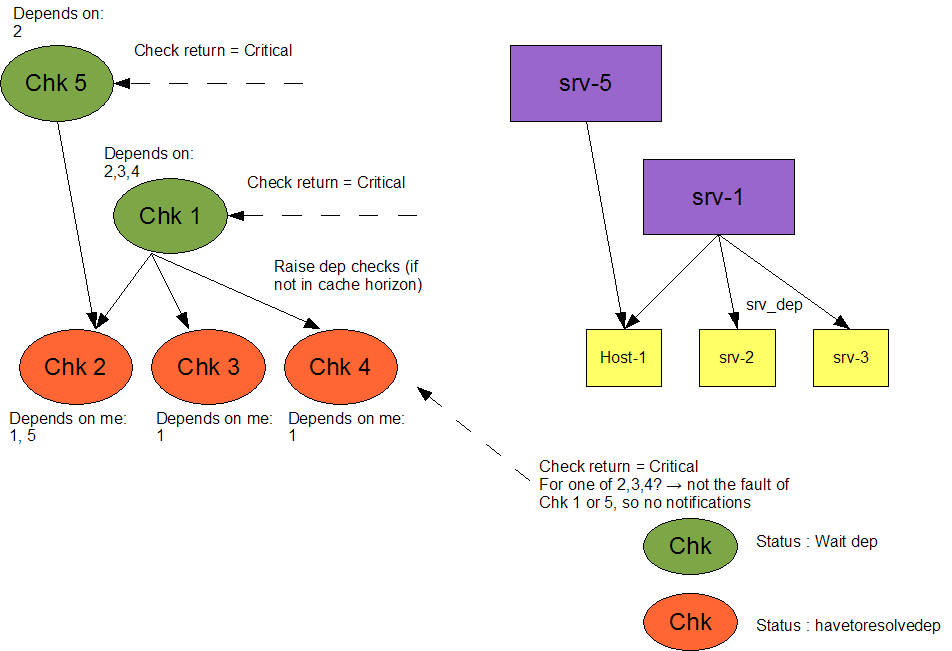
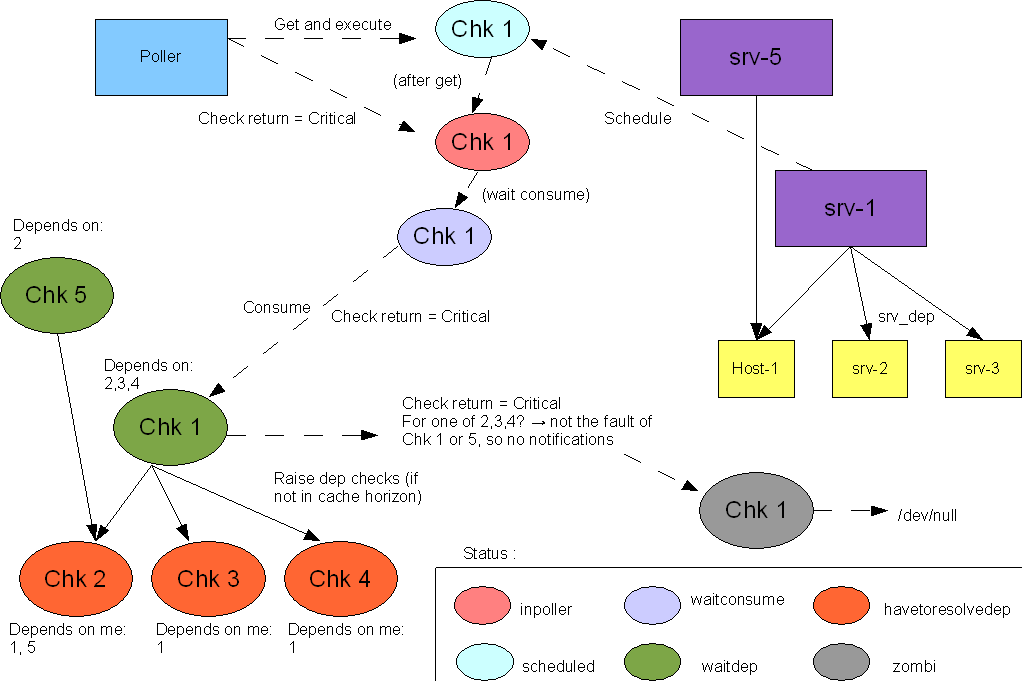
Update check documentation, now all status are draw. Begin to clean the notification and check calls because it just sucks now. (too complex to manage : not good).

diff --git a/src/schedulingitem.py b/src/schedulingitem.py
@@ -395,23 +395,34 @@ class SchedulingItem(Item):
             notif_commands = getattr(contact, notif_commands_prop)
             for cmd in notif_commands:
                 #TODO : remove occurences of my_type
-                n = Notification(type, 'scheduled', 'VOID', {cls.my_type : self.id, 'contact' : contact.id, 'command': cmd}, cls.my_type, t)
+                n = Notification(type, 'scheduled', 'VOID', cmd, {cls.my_type : self.id, 'contact' : contact.id}, cls.my_type, t)
                 #The notif must be fill with current data, 
                 #so we create the commmand now
-                command = n.ref['command']
                 data = self.get_data_for_notifications(contact, n)
-                n._command = m.resolve_command(command, data)
+                n.command = m.resolve_command(cmd, data)
                 #Maybe the contact do not want this notif? Arg!
                 if self.is_notification_launchable(n, contact):
                     notifications.append(n)
         return notifications
 
 
+    #We just send a notification, we need new ones in notification_interval
+    def get_new_notification_from(self, n):
+        now = time.time()
+        cls = self.__class__
+        #a recovery notif is send ony one time
+        if n.type == 'RECOVERY':
+            return None
+        #TODO : resolv command...
+        new_n = Notification(n.type, 'scheduled','', n.command_call, {cls.my_type : n.ref[cls.my_type], 'contact' : n.ref['contact']}, cls.my_type, now + self.notification_interval * 60)
+        return new_n
+
+
     #return a check to check the host/service
     def launch_check(self, t, ref_check = None):
         c = None
         cls = self.__class__
-
+        
         #if I'm already in checking, Why launch a new check?
         #If ref_check_id is not None , this is a dependancy_ check
         #If none, it might be a forced check, so OK, I do a new

diff --git a/src/notification.py b/src/notification.py
@@ -55,7 +55,7 @@ class Notification(Action):
         }
     
     
-    def __init__(self, type , status, command, ref, ref_type, t_to_go, \
+    def __init__(self, type , status, command, command_call, ref, ref_type, t_to_go, \
                      contact_name='', host_name='', service_description='',
                      reason_type=1, state=0, ack_author='', ack_data='', \
                      escalated=0, contacts_notified=0, \
@@ -65,11 +65,13 @@ class Notification(Action):
 
         self.id = Action.id
         Action.id += 1
+        
 
         self._in_timeout = False
         self.status = status
         self.exit_status = 3
-        self._command = command
+        self.command = command
+        self.command_call = command_call
         self.output = None
         self.ref = ref
         self.ref_type = ref_type
@@ -90,8 +92,8 @@ class Notification(Action):
         self.notification_type = notification_type
     
     def execute(self):
-        print "Notification %s" % self._command
-        child = spawn ('/bin/sh -c "%s"' % self._command)
+        print "Notification %s" % self.command
+        child = spawn ('/bin/sh -c "%s"' % self.command)
         self.status = 'lanched'
         
         try:
@@ -128,6 +130,13 @@ class Notification(Action):
 
     def get_id(self):
         return self.id
+
+
+    def get_return_from(self, n):
+        self.exit_status  = n.exit_status
+        #self.output = c.output
+        #self.check_time = c.check_time
+        #self.execution_time = c.execution_time
 
     
     #Fill data with info of item by looking at brok_type

diff --git a/src/scheduler.py b/src/scheduler.py
@@ -229,7 +229,6 @@ class Scheduler:
 
     #Caled by poller and reactionner to send result
     def put_results(self, c):
-        #print "Get results"
         if c.is_a == 'notification':
             item = self.get_ref_item_from_action(c)
             a = item.get_new_notification_from(c)
@@ -242,7 +241,6 @@ class Scheduler:
         elif c.is_a == 'check':
             self.checks[c.id].get_return_from(c)
             self.checks[c.id].status = 'waitconsume'
-            #self.add(c)
         else:
             print "Type unknown"
 
@@ -342,11 +340,6 @@ class Scheduler:
                     elif  a.is_a == 'check':
                         print "*******Adding dep checks*****"
                         checks_to_add.append(a)
-
-        #print "DBG:"
-        #for c in self.checks.values():
-        #    if c.ref_type == 'host':
-        #        print c.id, ":", c.status, 'Depend_on_me:', len(c.depend_on_me), 'depend_on', c.depend_on        
 
         #All 'finished' checks (no more dep) raise checks they depends on
         for c in self.checks.values():

diff --git a/src/service.py b/src/service.py
@@ -350,13 +350,13 @@ class Service(SchedulingItem):
             
 
     #We just send a notification, we need new ones in notification_interval
-    def get_new_notification_from(self, n):
-        now = time.time()
-        #a recovery notif is send ony one time
-        if n.type == 'RECOVERY':
-            return None
-        new_n = Notification(n.type, 'scheduled','', {'service' : n.ref['service'], 'contact' : n.ref['contact'], 'command': n.ref['command']}, 'service', now + self.notification_interval * 60)
-        return new_n
+    #def get_new_notification_from(self, n):
+    #    now = time.time()
+    #    #a recovery notif is send ony one time
+    #    if n.type == 'RECOVERY':
+    #        return None
+    #    new_n = Notification(n.type, 'scheduled','', {'service' : n.ref['service'], 'contact' : n.ref['contact'], 'command': n.ref['command']}, 'service', now + self.notification_interval * 60)
+    #    return new_n
 
 
     #Check if the notificaton is still necessery

diff --git a/src/host.py b/src/host.py
@@ -301,9 +301,9 @@ class Host(SchedulingItem):
             
 
     #We just send a notification, we need new ones in notification_interval
-    def get_new_notification_from(self, n):
-        now = time.time()
-        return Notification(n.type, 'scheduled', '', {'host' : n.ref['host'], 'contact' : n.ref['contact'], 'command': n.ref['command']}, 'host', now + self.notification_interval * 60)
+    #def get_new_notification_from(self, n):
+    #    now = time.time()
+    #    return Notification(n.type, 'scheduled', '', {'host' : n.ref['host'], 'contact' : n.ref['contact'], 'command': n.ref['command']}, 'host', now + self.notification_interval * 60)
 
 
     #Check if the notificaton is still necessery

diff --git a/src/check.py b/src/check.py
@@ -29,6 +29,7 @@ class Check(Action):
                      'execution_time')
     #id = 0 #Is common to Actions
     def __init__(self, status, command, ref, ref_type, t_to_go, dep_check=None):
+    #def __init__(self, status, command, ref, t_to_go, dep_check=None):
         self.is_a = 'check'
         self.type = ''
         self.id = Action.id
